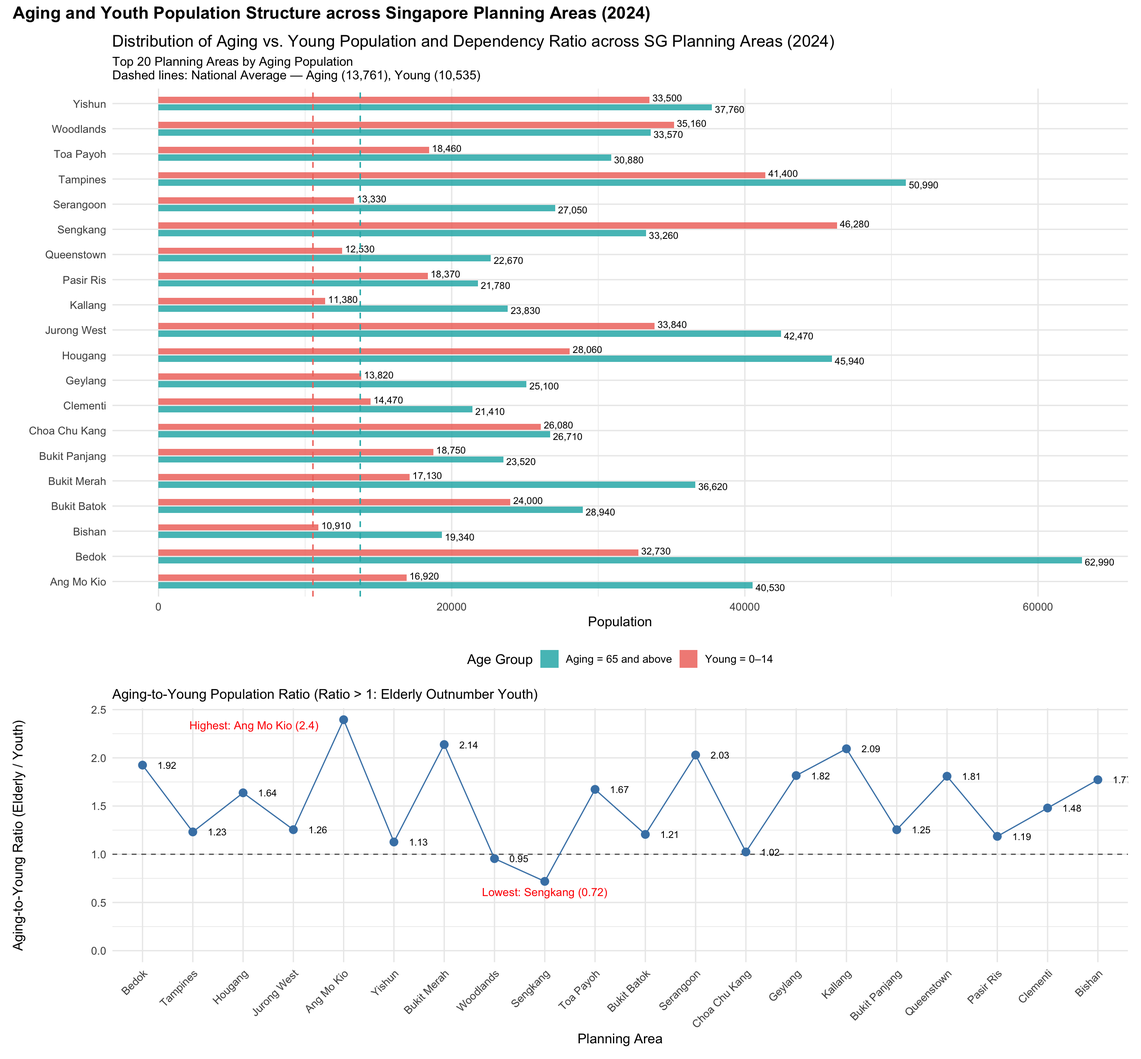
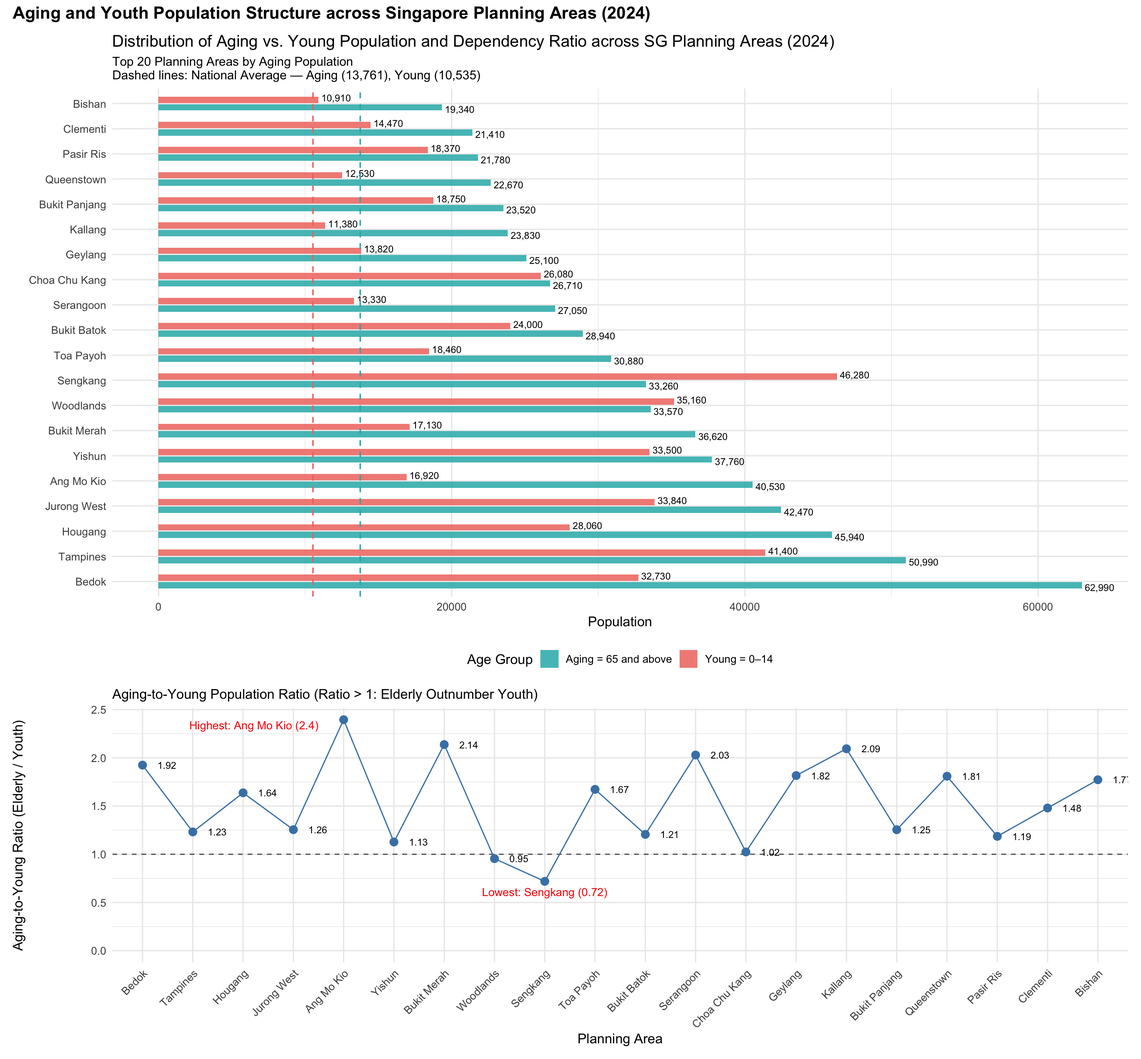
commit th1.2

diff --git a/_site/Take-home_Exercise/Take-home_Ex01/Take-home_Ex01B.html b/_site/Take-home_Exercise/Take-home_Ex01/Take-home_Ex01B.html
@@ -671,106 +671,104 @@ pre > code.sourceCode > span > a:first-child::before { text-decoration: underlin
 <span id="cb7-15"><a href="#cb7-15" aria-hidden="true" tabindex="-1"></a>  <span class="fu">slice_head</span>(<span class="at">n =</span> <span class="dv">20</span>) <span class="sc">%&gt;%</span></span>
 <span id="cb7-16"><a href="#cb7-16" aria-hidden="true" tabindex="-1"></a>  <span class="fu">pull</span>(PA)</span>
 <span id="cb7-17"><a href="#cb7-17" aria-hidden="true" tabindex="-1"></a></span>
-<span id="cb7-18"><a href="#cb7-18" aria-hidden="true" tabindex="-1"></a>top_age_groups <span class="ot">&lt;-</span> age_groups <span class="sc">%&gt;%</span></span>
-<span id="cb7-19"><a href="#cb7-19" aria-hidden="true" tabindex="-1"></a>  <span class="fu">filter</span>(PA <span class="sc">%in%</span> top_pa)</span>
-<span id="cb7-20"><a href="#cb7-20" aria-hidden="true" tabindex="-1"></a></span>
-<span id="cb7-21"><a href="#cb7-21" aria-hidden="true" tabindex="-1"></a><span class="co">#avg_pop &lt;- mean(top_age_groups$total_pop)</span></span>
-<span id="cb7-22"><a href="#cb7-22" aria-hidden="true" tabindex="-1"></a></span>
-<span id="cb7-23"><a href="#cb7-23" aria-hidden="true" tabindex="-1"></a>avg_pop <span class="ot">&lt;-</span> <span class="fu">mean</span>(age_groups<span class="sc">$</span>total_pop)</span>
-<span id="cb7-24"><a href="#cb7-24" aria-hidden="true" tabindex="-1"></a></span>
-<span id="cb7-25"><a href="#cb7-25" aria-hidden="true" tabindex="-1"></a></span>
-<span id="cb7-26"><a href="#cb7-26" aria-hidden="true" tabindex="-1"></a><span class="co">#Sort order: By elderly population</span></span>
-<span id="cb7-27"><a href="#cb7-27" aria-hidden="true" tabindex="-1"></a>pa_order <span class="ot">&lt;-</span> top_age_groups <span class="sc">%&gt;%</span></span>
-<span id="cb7-28"><a href="#cb7-28" aria-hidden="true" tabindex="-1"></a>  <span class="fu">filter</span>(group <span class="sc">==</span> <span class="st">"Aging"</span>) <span class="sc">%&gt;%</span></span>
-<span id="cb7-29"><a href="#cb7-29" aria-hidden="true" tabindex="-1"></a>  <span class="fu">arrange</span>(<span class="fu">desc</span>(total_pop)) <span class="sc">%&gt;%</span></span>
-<span id="cb7-30"><a href="#cb7-30" aria-hidden="true" tabindex="-1"></a>  <span class="fu">pull</span>(PA)</span>
+<span id="cb7-18"><a href="#cb7-18" aria-hidden="true" tabindex="-1"></a><span class="co"># Create top_age_groups</span></span>
+<span id="cb7-19"><a href="#cb7-19" aria-hidden="true" tabindex="-1"></a>top_age_groups <span class="ot">&lt;-</span> age_groups <span class="sc">%&gt;%</span></span>
+<span id="cb7-20"><a href="#cb7-20" aria-hidden="true" tabindex="-1"></a>  <span class="fu">filter</span>(PA <span class="sc">%in%</span> top_pa)</span>
+<span id="cb7-21"><a href="#cb7-21" aria-hidden="true" tabindex="-1"></a></span>
+<span id="cb7-22"><a href="#cb7-22" aria-hidden="true" tabindex="-1"></a><span class="co"># Sort order: By elderly population</span></span>
+<span id="cb7-23"><a href="#cb7-23" aria-hidden="true" tabindex="-1"></a>pa_order <span class="ot">&lt;-</span> top_age_groups <span class="sc">%&gt;%</span></span>
+<span id="cb7-24"><a href="#cb7-24" aria-hidden="true" tabindex="-1"></a>  <span class="fu">filter</span>(group <span class="sc">==</span> <span class="st">"Aging"</span>) <span class="sc">%&gt;%</span></span>
+<span id="cb7-25"><a href="#cb7-25" aria-hidden="true" tabindex="-1"></a>  <span class="fu">arrange</span>(<span class="fu">desc</span>(total_pop)) <span class="sc">%&gt;%</span></span>
+<span id="cb7-26"><a href="#cb7-26" aria-hidden="true" tabindex="-1"></a>  <span class="fu">pull</span>(PA)</span>
+<span id="cb7-27"><a href="#cb7-27" aria-hidden="true" tabindex="-1"></a></span>
+<span id="cb7-28"><a href="#cb7-28" aria-hidden="true" tabindex="-1"></a><span class="co"># Apply factor levels for consistent plotting</span></span>
+<span id="cb7-29"><a href="#cb7-29" aria-hidden="true" tabindex="-1"></a>top_age_groups <span class="ot">&lt;-</span> top_age_groups <span class="sc">%&gt;%</span></span>
+<span id="cb7-30"><a href="#cb7-30" aria-hidden="true" tabindex="-1"></a>  <span class="fu">mutate</span>(<span class="at">PA =</span> <span class="fu">factor</span>(PA, <span class="at">levels =</span> pa_order))</span>
 <span id="cb7-31"><a href="#cb7-31" aria-hidden="true" tabindex="-1"></a></span>
-<span id="cb7-32"><a href="#cb7-32" aria-hidden="true" tabindex="-1"></a>avg_aging_pop <span class="ot">&lt;-</span> age_groups <span class="sc">%&gt;%</span></span>
-<span id="cb7-33"><a href="#cb7-33" aria-hidden="true" tabindex="-1"></a>  <span class="fu">filter</span>(group <span class="sc">==</span> <span class="st">"Aging"</span>) <span class="sc">%&gt;%</span></span>
-<span id="cb7-34"><a href="#cb7-34" aria-hidden="true" tabindex="-1"></a>  <span class="fu">summarise</span>(<span class="at">mean_pop =</span> <span class="fu">mean</span>(total_pop)) <span class="sc">%&gt;%</span></span>
-<span id="cb7-35"><a href="#cb7-35" aria-hidden="true" tabindex="-1"></a>  <span class="fu">pull</span>(mean_pop)</span>
-<span id="cb7-36"><a href="#cb7-36" aria-hidden="true" tabindex="-1"></a></span>
-<span id="cb7-37"><a href="#cb7-37" aria-hidden="true" tabindex="-1"></a>avg_young_pop <span class="ot">&lt;-</span> age_groups <span class="sc">%&gt;%</span></span>
-<span id="cb7-38"><a href="#cb7-38" aria-hidden="true" tabindex="-1"></a>  <span class="fu">filter</span>(group <span class="sc">==</span> <span class="st">"Young"</span>) <span class="sc">%&gt;%</span></span>
-<span id="cb7-39"><a href="#cb7-39" aria-hidden="true" tabindex="-1"></a>  <span class="fu">summarise</span>(<span class="at">mean_pop =</span> <span class="fu">mean</span>(total_pop)) <span class="sc">%&gt;%</span></span>
-<span id="cb7-40"><a href="#cb7-40" aria-hidden="true" tabindex="-1"></a>  <span class="fu">pull</span>(mean_pop)</span>
-<span id="cb7-41"><a href="#cb7-41" aria-hidden="true" tabindex="-1"></a></span>
-<span id="cb7-42"><a href="#cb7-42" aria-hidden="true" tabindex="-1"></a></span>
-<span id="cb7-43"><a href="#cb7-43" aria-hidden="true" tabindex="-1"></a><span class="co"># Proportional data</span></span>
-<span id="cb7-44"><a href="#cb7-44" aria-hidden="true" tabindex="-1"></a>ratio_data <span class="ot">&lt;-</span> age_groups <span class="sc">%&gt;%</span></span>
-<span id="cb7-45"><a href="#cb7-45" aria-hidden="true" tabindex="-1"></a>  <span class="fu">filter</span>(PA <span class="sc">%in%</span> top_pa) <span class="sc">%&gt;%</span></span>
-<span id="cb7-46"><a href="#cb7-46" aria-hidden="true" tabindex="-1"></a>  <span class="fu">pivot_wider</span>(<span class="at">names_from =</span> group, <span class="at">values_from =</span> total_pop) <span class="sc">%&gt;%</span></span>
-<span id="cb7-47"><a href="#cb7-47" aria-hidden="true" tabindex="-1"></a>  <span class="fu">mutate</span>(<span class="at">ratio =</span> Aging <span class="sc">/</span> Young) <span class="sc">%&gt;%</span></span>
-<span id="cb7-48"><a href="#cb7-48" aria-hidden="true" tabindex="-1"></a>  <span class="fu">filter</span>(<span class="sc">!</span><span class="fu">is.na</span>(PA)) <span class="sc">%&gt;%</span></span>
-<span id="cb7-49"><a href="#cb7-49" aria-hidden="true" tabindex="-1"></a>  <span class="fu">mutate</span>(<span class="at">PA =</span> <span class="fu">factor</span>(PA, <span class="at">levels =</span> pa_order))</span>
-<span id="cb7-50"><a href="#cb7-50" aria-hidden="true" tabindex="-1"></a></span>
-<span id="cb7-51"><a href="#cb7-51" aria-hidden="true" tabindex="-1"></a><span class="co"># Extreme value labels</span></span>
-<span id="cb7-52"><a href="#cb7-52" aria-hidden="true" tabindex="-1"></a>max_label <span class="ot">&lt;-</span> ratio_data <span class="sc">%&gt;%</span> <span class="fu">slice_max</span>(ratio, <span class="at">n =</span> <span class="dv">1</span>)</span>
-<span id="cb7-53"><a href="#cb7-53" aria-hidden="true" tabindex="-1"></a>min_label <span class="ot">&lt;-</span> ratio_data <span class="sc">%&gt;%</span> <span class="fu">slice_min</span>(ratio, <span class="at">n =</span> <span class="dv">1</span>)</span>
-<span id="cb7-54"><a href="#cb7-54" aria-hidden="true" tabindex="-1"></a></span>
-<span id="cb7-55"><a href="#cb7-55" aria-hidden="true" tabindex="-1"></a>non_extreme <span class="ot">&lt;-</span> ratio_data <span class="sc">%&gt;%</span></span>
-<span id="cb7-56"><a href="#cb7-56" aria-hidden="true" tabindex="-1"></a>  <span class="fu">filter</span>(<span class="sc">!</span>(PA <span class="sc">%in%</span> <span class="fu">c</span>(max_label<span class="sc">$</span>PA, min_label<span class="sc">$</span>PA)))</span>
-<span id="cb7-57"><a href="#cb7-57" aria-hidden="true" tabindex="-1"></a></span>
-<span id="cb7-58"><a href="#cb7-58" aria-hidden="true" tabindex="-1"></a><span class="co"># Top Bar Chart</span></span>
-<span id="cb7-59"><a href="#cb7-59" aria-hidden="true" tabindex="-1"></a>bar_plot <span class="ot">&lt;-</span> <span class="fu">ggplot</span>(top_age_groups, <span class="fu">aes</span>(<span class="at">x =</span> total_pop, <span class="at">y =</span> PA, <span class="at">fill =</span> group)) <span class="sc">+</span></span>
-<span id="cb7-60"><a href="#cb7-60" aria-hidden="true" tabindex="-1"></a>  <span class="fu">geom_col</span>(<span class="at">position =</span> <span class="fu">position_dodge</span>(<span class="at">width =</span> <span class="fl">0.6</span>), <span class="at">width =</span> <span class="fl">0.5</span>, <span class="at">alpha =</span> <span class="fl">0.85</span>) <span class="sc">+</span></span>
-<span id="cb7-61"><a href="#cb7-61" aria-hidden="true" tabindex="-1"></a>  <span class="fu">geom_text</span>(<span class="fu">aes</span>(<span class="at">label =</span> <span class="fu">comma</span>(total_pop)), </span>
-<span id="cb7-62"><a href="#cb7-62" aria-hidden="true" tabindex="-1"></a>            <span class="at">position =</span> <span class="fu">position_dodge</span>(<span class="at">width =</span> <span class="fl">0.9</span>), </span>
-<span id="cb7-63"><a href="#cb7-63" aria-hidden="true" tabindex="-1"></a>            <span class="at">hjust =</span> <span class="sc">-</span><span class="fl">0.1</span>, <span class="at">size =</span> <span class="dv">3</span>) <span class="sc">+</span></span>
-<span id="cb7-64"><a href="#cb7-64" aria-hidden="true" tabindex="-1"></a></span>
-<span id="cb7-65"><a href="#cb7-65" aria-hidden="true" tabindex="-1"></a>  <span class="co"># 两条平均线</span></span>
-<span id="cb7-66"><a href="#cb7-66" aria-hidden="true" tabindex="-1"></a>  <span class="fu">geom_vline</span>(<span class="at">xintercept =</span> avg_aging_pop, <span class="at">linetype =</span> <span class="st">"dashed"</span>, <span class="at">color =</span> <span class="st">"#29B4B6"</span>, <span class="at">size =</span> <span class="fl">0.6</span>) <span class="sc">+</span></span>
-<span id="cb7-67"><a href="#cb7-67" aria-hidden="true" tabindex="-1"></a>  <span class="fu">geom_vline</span>(<span class="at">xintercept =</span> avg_young_pop, <span class="at">linetype =</span> <span class="st">"dashed"</span>, <span class="at">color =</span> <span class="st">"#F0776D"</span>, <span class="at">size =</span> <span class="fl">0.6</span>) <span class="sc">+</span></span>
-<span id="cb7-68"><a href="#cb7-68" aria-hidden="true" tabindex="-1"></a></span>
-<span id="cb7-69"><a href="#cb7-69" aria-hidden="true" tabindex="-1"></a>  <span class="fu">scale_fill_manual</span>(</span>
-<span id="cb7-70"><a href="#cb7-70" aria-hidden="true" tabindex="-1"></a>    <span class="at">values =</span> <span class="fu">c</span>(<span class="st">"Young"</span> <span class="ot">=</span> <span class="st">"#F0776D"</span>, <span class="st">"Aging"</span> <span class="ot">=</span> <span class="st">"#29B4B6"</span>),</span>
-<span id="cb7-71"><a href="#cb7-71" aria-hidden="true" tabindex="-1"></a>    <span class="at">name =</span> <span class="st">"Age Group"</span>,</span>
-<span id="cb7-72"><a href="#cb7-72" aria-hidden="true" tabindex="-1"></a>    <span class="at">labels =</span> <span class="fu">c</span>(<span class="st">"Aging = 65 and above"</span>, <span class="st">"Young = 0–14"</span>)</span>
-<span id="cb7-73"><a href="#cb7-73" aria-hidden="true" tabindex="-1"></a>  ) <span class="sc">+</span></span>
-<span id="cb7-74"><a href="#cb7-74" aria-hidden="true" tabindex="-1"></a></span>
-<span id="cb7-75"><a href="#cb7-75" aria-hidden="true" tabindex="-1"></a>  <span class="fu">labs</span>(</span>
-<span id="cb7-76"><a href="#cb7-76" aria-hidden="true" tabindex="-1"></a>    <span class="at">x =</span> <span class="st">"Population"</span>, </span>
-<span id="cb7-77"><a href="#cb7-77" aria-hidden="true" tabindex="-1"></a>    <span class="at">y =</span> <span class="cn">NULL</span>,</span>
-<span id="cb7-78"><a href="#cb7-78" aria-hidden="true" tabindex="-1"></a>    <span class="at">title =</span> <span class="st">"Distribution of Aging vs. Young Population and Dependency Ratio across SG Planning Areas (2024)"</span>,</span>
-<span id="cb7-79"><a href="#cb7-79" aria-hidden="true" tabindex="-1"></a>    <span class="at">subtitle =</span> <span class="fu">paste0</span>(</span>
-<span id="cb7-80"><a href="#cb7-80" aria-hidden="true" tabindex="-1"></a>      <span class="st">"Top 20 Planning Areas by Aging Population</span><span class="sc">\n</span><span class="st">"</span>,</span>
-<span id="cb7-81"><a href="#cb7-81" aria-hidden="true" tabindex="-1"></a>      <span class="st">"Dashed lines: National Average — Aging ("</span>, <span class="fu">comma</span>(<span class="fu">round</span>(avg_aging_pop)), </span>
-<span id="cb7-82"><a href="#cb7-82" aria-hidden="true" tabindex="-1"></a>      <span class="st">"), Young ("</span>, <span class="fu">comma</span>(<span class="fu">round</span>(avg_young_pop)), <span class="st">")"</span></span>
-<span id="cb7-83"><a href="#cb7-83" aria-hidden="true" tabindex="-1"></a>    )</span>
-<span id="cb7-84"><a href="#cb7-84" aria-hidden="true" tabindex="-1"></a>  ) <span class="sc">+</span></span>
-<span id="cb7-85"><a href="#cb7-85" aria-hidden="true" tabindex="-1"></a></span>
-<span id="cb7-86"><a href="#cb7-86" aria-hidden="true" tabindex="-1"></a>  <span class="fu">theme_minimal</span>(<span class="at">base_size =</span> <span class="dv">12</span>) <span class="sc">+</span></span>
-<span id="cb7-87"><a href="#cb7-87" aria-hidden="true" tabindex="-1"></a>  <span class="fu">theme</span>(<span class="at">legend.position =</span> <span class="st">"bottom"</span>,<span class="at">plot.subtitle =</span> <span class="fu">element_text</span>(<span class="at">size =</span> <span class="dv">11</span>))</span>
-<span id="cb7-88"><a href="#cb7-88" aria-hidden="true" tabindex="-1"></a></span>
-<span id="cb7-89"><a href="#cb7-89" aria-hidden="true" tabindex="-1"></a></span>
-<span id="cb7-90"><a href="#cb7-90" aria-hidden="true" tabindex="-1"></a><span class="co"># Ratio Plot</span></span>
-<span id="cb7-91"><a href="#cb7-91" aria-hidden="true" tabindex="-1"></a>line_plot <span class="ot">&lt;-</span> <span class="fu">ggplot</span>(ratio_data, <span class="fu">aes</span>(<span class="at">x =</span> PA, <span class="at">y =</span> ratio)) <span class="sc">+</span></span>
-<span id="cb7-92"><a href="#cb7-92" aria-hidden="true" tabindex="-1"></a>  <span class="fu">geom_hline</span>(<span class="at">yintercept =</span> <span class="dv">1</span>, <span class="at">linetype =</span> <span class="st">"dashed"</span>, <span class="at">color =</span> <span class="st">"grey40"</span>) <span class="sc">+</span></span>
-<span id="cb7-93"><a href="#cb7-93" aria-hidden="true" tabindex="-1"></a>  <span class="fu">geom_line</span>(<span class="fu">aes</span>(<span class="at">group =</span> <span class="dv">1</span>), <span class="at">color =</span> <span class="st">"steelblue"</span>) <span class="sc">+</span></span>
-<span id="cb7-94"><a href="#cb7-94" aria-hidden="true" tabindex="-1"></a>  <span class="fu">geom_point</span>(<span class="at">size =</span> <span class="dv">3</span>, <span class="at">color =</span> <span class="st">"steelblue"</span>) <span class="sc">+</span></span>
-<span id="cb7-95"><a href="#cb7-95" aria-hidden="true" tabindex="-1"></a>  <span class="fu">geom_text</span>(<span class="at">data =</span> max_label, <span class="fu">aes</span>(<span class="at">label =</span> <span class="fu">paste0</span>(<span class="st">"Highest: "</span>, PA, <span class="st">" ("</span>, <span class="fu">round</span>(ratio, <span class="dv">2</span>), <span class="st">")"</span>)),</span>
-<span id="cb7-96"><a href="#cb7-96" aria-hidden="true" tabindex="-1"></a>            <span class="at">vjust =</span> <span class="sc">-</span><span class="fl">1.2</span>, <span class="at">color =</span> <span class="st">"red"</span>, <span class="at">size =</span> <span class="fl">3.5</span>,<span class="at">hjust =</span> <span class="dv">1</span>,          </span>
-<span id="cb7-97"><a href="#cb7-97" aria-hidden="true" tabindex="-1"></a>          <span class="at">nudge_x =</span> <span class="sc">-</span><span class="fl">0.5</span>,<span class="at">nudge_y=</span><span class="sc">-</span><span class="fl">0.2</span>) <span class="sc">+</span></span>
-<span id="cb7-98"><a href="#cb7-98" aria-hidden="true" tabindex="-1"></a>  <span class="fu">geom_text</span>(<span class="at">data =</span> min_label, <span class="fu">aes</span>(<span class="at">label =</span> <span class="fu">paste0</span>(<span class="st">"Lowest: "</span>, PA, <span class="st">" ("</span>, <span class="fu">round</span>(ratio, <span class="dv">2</span>), <span class="st">")"</span>)),</span>
-<span id="cb7-99"><a href="#cb7-99" aria-hidden="true" tabindex="-1"></a>            <span class="at">vjust =</span> <span class="fl">1.8</span>, <span class="at">color =</span> <span class="st">"red"</span>, <span class="at">size =</span> <span class="fl">3.5</span>) <span class="sc">+</span></span>
-<span id="cb7-100"><a href="#cb7-100" aria-hidden="true" tabindex="-1"></a>  <span class="fu">geom_text</span>(<span class="at">data =</span> non_extreme, </span>
-<span id="cb7-101"><a href="#cb7-101" aria-hidden="true" tabindex="-1"></a>          <span class="fu">aes</span>(<span class="at">label =</span> <span class="fu">round</span>(ratio, <span class="dv">2</span>)), </span>
-<span id="cb7-102"><a href="#cb7-102" aria-hidden="true" tabindex="-1"></a>          <span class="at">hjust =</span> <span class="dv">0</span>,<span class="at">nudge_x =</span> <span class="fl">0.3</span>, <span class="at">size =</span> <span class="dv">3</span>, <span class="at">color =</span> <span class="st">"black"</span>)<span class="sc">+</span></span>
-<span id="cb7-103"><a href="#cb7-103" aria-hidden="true" tabindex="-1"></a>  <span class="fu">scale_y_continuous</span>(<span class="at">name =</span> <span class="st">"Aging-to-Young Ratio (Elderly / Youth)"</span>, <span class="at">limits =</span> <span class="fu">c</span>(<span class="dv">0</span>, <span class="cn">NA</span>)) <span class="sc">+</span></span>
-<span id="cb7-104"><a href="#cb7-104" aria-hidden="true" tabindex="-1"></a>  <span class="fu">labs</span>(<span class="at">x =</span> <span class="st">"Planning Area"</span>,</span>
-<span id="cb7-105"><a href="#cb7-105" aria-hidden="true" tabindex="-1"></a>       <span class="at">subtitle =</span> <span class="st">"Aging-to-Young Population Ratio (Ratio &gt; 1: Elderly Outnumber Youth)"</span>) <span class="sc">+</span></span>
-<span id="cb7-106"><a href="#cb7-106" aria-hidden="true" tabindex="-1"></a>  <span class="fu">theme_minimal</span>(<span class="at">base_size =</span> <span class="dv">12</span>) <span class="sc">+</span></span>
-<span id="cb7-107"><a href="#cb7-107" aria-hidden="true" tabindex="-1"></a>  <span class="fu">theme</span>(<span class="at">axis.text.x =</span> <span class="fu">element_text</span>(<span class="at">angle =</span> <span class="dv">45</span>, <span class="at">hjust =</span> <span class="dv">1</span>))</span>
-<span id="cb7-108"><a href="#cb7-108" aria-hidden="true" tabindex="-1"></a></span>
-<span id="cb7-109"><a href="#cb7-109" aria-hidden="true" tabindex="-1"></a><span class="co"># Combine plots with improved title</span></span>
-<span id="cb7-110"><a href="#cb7-110" aria-hidden="true" tabindex="-1"></a>final_plot <span class="ot">&lt;-</span> (bar_plot <span class="sc">/</span> line_plot) <span class="sc">+</span></span>
-<span id="cb7-111"><a href="#cb7-111" aria-hidden="true" tabindex="-1"></a>  <span class="fu">plot_layout</span>(<span class="at">heights =</span> <span class="fu">c</span>(<span class="dv">2</span>, <span class="dv">1</span>)) <span class="sc">+</span></span>
-<span id="cb7-112"><a href="#cb7-112" aria-hidden="true" tabindex="-1"></a>  <span class="fu">plot_annotation</span>(</span>
-<span id="cb7-113"><a href="#cb7-113" aria-hidden="true" tabindex="-1"></a>    <span class="at">title =</span> <span class="st">"Aging and Youth Population Structure across Singapore Planning Areas (2024)"</span>,</span>
-<span id="cb7-114"><a href="#cb7-114" aria-hidden="true" tabindex="-1"></a>    <span class="at">theme =</span> <span class="fu">theme</span>(<span class="at">plot.title =</span> <span class="fu">element_text</span>(<span class="at">size =</span> <span class="dv">15</span>, <span class="at">face =</span> <span class="st">"bold"</span>))</span>
-<span id="cb7-115"><a href="#cb7-115" aria-hidden="true" tabindex="-1"></a>  )</span>
-<span id="cb7-116"><a href="#cb7-116" aria-hidden="true" tabindex="-1"></a></span>
-<span id="cb7-117"><a href="#cb7-117" aria-hidden="true" tabindex="-1"></a><span class="fu">print</span>(final_plot)</span></code><button title="Copy to Clipboard" class="code-copy-button"><i class="bi"></i></button></pre></div>
+<span id="cb7-32"><a href="#cb7-32" aria-hidden="true" tabindex="-1"></a><span class="co"># Calculate national averages</span></span>
+<span id="cb7-33"><a href="#cb7-33" aria-hidden="true" tabindex="-1"></a>avg_pop <span class="ot">&lt;-</span> <span class="fu">mean</span>(age_groups<span class="sc">$</span>total_pop)</span>
+<span id="cb7-34"><a href="#cb7-34" aria-hidden="true" tabindex="-1"></a></span>
+<span id="cb7-35"><a href="#cb7-35" aria-hidden="true" tabindex="-1"></a>avg_aging_pop <span class="ot">&lt;-</span> age_groups <span class="sc">%&gt;%</span></span>
+<span id="cb7-36"><a href="#cb7-36" aria-hidden="true" tabindex="-1"></a>  <span class="fu">filter</span>(group <span class="sc">==</span> <span class="st">"Aging"</span>) <span class="sc">%&gt;%</span></span>
+<span id="cb7-37"><a href="#cb7-37" aria-hidden="true" tabindex="-1"></a>  <span class="fu">summarise</span>(<span class="at">mean_pop =</span> <span class="fu">mean</span>(total_pop)) <span class="sc">%&gt;%</span></span>
+<span id="cb7-38"><a href="#cb7-38" aria-hidden="true" tabindex="-1"></a>  <span class="fu">pull</span>(mean_pop)</span>
+<span id="cb7-39"><a href="#cb7-39" aria-hidden="true" tabindex="-1"></a></span>
+<span id="cb7-40"><a href="#cb7-40" aria-hidden="true" tabindex="-1"></a>avg_young_pop <span class="ot">&lt;-</span> age_groups <span class="sc">%&gt;%</span></span>
+<span id="cb7-41"><a href="#cb7-41" aria-hidden="true" tabindex="-1"></a>  <span class="fu">filter</span>(group <span class="sc">==</span> <span class="st">"Young"</span>) <span class="sc">%&gt;%</span></span>
+<span id="cb7-42"><a href="#cb7-42" aria-hidden="true" tabindex="-1"></a>  <span class="fu">summarise</span>(<span class="at">mean_pop =</span> <span class="fu">mean</span>(total_pop)) <span class="sc">%&gt;%</span></span>
+<span id="cb7-43"><a href="#cb7-43" aria-hidden="true" tabindex="-1"></a>  <span class="fu">pull</span>(mean_pop)</span>
+<span id="cb7-44"><a href="#cb7-44" aria-hidden="true" tabindex="-1"></a></span>
+<span id="cb7-45"><a href="#cb7-45" aria-hidden="true" tabindex="-1"></a><span class="co"># Calculate aging-to-young ratio for top PAs</span></span>
+<span id="cb7-46"><a href="#cb7-46" aria-hidden="true" tabindex="-1"></a>ratio_data <span class="ot">&lt;-</span> age_groups <span class="sc">%&gt;%</span></span>
+<span id="cb7-47"><a href="#cb7-47" aria-hidden="true" tabindex="-1"></a>  <span class="fu">filter</span>(PA <span class="sc">%in%</span> top_pa) <span class="sc">%&gt;%</span></span>
+<span id="cb7-48"><a href="#cb7-48" aria-hidden="true" tabindex="-1"></a>  <span class="fu">pivot_wider</span>(<span class="at">names_from =</span> group, <span class="at">values_from =</span> total_pop) <span class="sc">%&gt;%</span></span>
+<span id="cb7-49"><a href="#cb7-49" aria-hidden="true" tabindex="-1"></a>  <span class="fu">mutate</span>(<span class="at">ratio =</span> Aging <span class="sc">/</span> Young) <span class="sc">%&gt;%</span></span>
+<span id="cb7-50"><a href="#cb7-50" aria-hidden="true" tabindex="-1"></a>  <span class="fu">filter</span>(<span class="sc">!</span><span class="fu">is.na</span>(PA)) <span class="sc">%&gt;%</span></span>
+<span id="cb7-51"><a href="#cb7-51" aria-hidden="true" tabindex="-1"></a>  <span class="fu">mutate</span>(<span class="at">PA =</span> <span class="fu">factor</span>(PA, <span class="at">levels =</span> pa_order))</span>
+<span id="cb7-52"><a href="#cb7-52" aria-hidden="true" tabindex="-1"></a></span>
+<span id="cb7-53"><a href="#cb7-53" aria-hidden="true" tabindex="-1"></a><span class="co"># Extreme value labels</span></span>
+<span id="cb7-54"><a href="#cb7-54" aria-hidden="true" tabindex="-1"></a>max_label <span class="ot">&lt;-</span> ratio_data <span class="sc">%&gt;%</span> <span class="fu">slice_max</span>(ratio, <span class="at">n =</span> <span class="dv">1</span>)</span>
+<span id="cb7-55"><a href="#cb7-55" aria-hidden="true" tabindex="-1"></a>min_label <span class="ot">&lt;-</span> ratio_data <span class="sc">%&gt;%</span> <span class="fu">slice_min</span>(ratio, <span class="at">n =</span> <span class="dv">1</span>)</span>
+<span id="cb7-56"><a href="#cb7-56" aria-hidden="true" tabindex="-1"></a>non_extreme <span class="ot">&lt;-</span> ratio_data <span class="sc">%&gt;%</span></span>
+<span id="cb7-57"><a href="#cb7-57" aria-hidden="true" tabindex="-1"></a>  <span class="fu">filter</span>(<span class="sc">!</span>(PA <span class="sc">%in%</span> <span class="fu">c</span>(max_label<span class="sc">$</span>PA, min_label<span class="sc">$</span>PA)))</span>
+<span id="cb7-58"><a href="#cb7-58" aria-hidden="true" tabindex="-1"></a></span>
+<span id="cb7-59"><a href="#cb7-59" aria-hidden="true" tabindex="-1"></a><span class="co"># Top Bar Chart</span></span>
+<span id="cb7-60"><a href="#cb7-60" aria-hidden="true" tabindex="-1"></a>bar_plot <span class="ot">&lt;-</span> <span class="fu">ggplot</span>(top_age_groups, <span class="fu">aes</span>(<span class="at">x =</span> total_pop, <span class="at">y =</span> PA, <span class="at">fill =</span> group)) <span class="sc">+</span></span>
+<span id="cb7-61"><a href="#cb7-61" aria-hidden="true" tabindex="-1"></a>  <span class="fu">geom_col</span>(<span class="at">position =</span> <span class="fu">position_dodge</span>(<span class="at">width =</span> <span class="fl">0.6</span>), <span class="at">width =</span> <span class="fl">0.5</span>, <span class="at">alpha =</span> <span class="fl">0.85</span>) <span class="sc">+</span></span>
+<span id="cb7-62"><a href="#cb7-62" aria-hidden="true" tabindex="-1"></a>  <span class="fu">geom_text</span>(<span class="fu">aes</span>(<span class="at">label =</span> <span class="fu">comma</span>(total_pop)), </span>
+<span id="cb7-63"><a href="#cb7-63" aria-hidden="true" tabindex="-1"></a>            <span class="at">position =</span> <span class="fu">position_dodge</span>(<span class="at">width =</span> <span class="fl">0.9</span>), </span>
+<span id="cb7-64"><a href="#cb7-64" aria-hidden="true" tabindex="-1"></a>            <span class="at">hjust =</span> <span class="sc">-</span><span class="fl">0.1</span>, <span class="at">size =</span> <span class="dv">3</span>) <span class="sc">+</span></span>
+<span id="cb7-65"><a href="#cb7-65" aria-hidden="true" tabindex="-1"></a>  <span class="fu">geom_vline</span>(<span class="at">xintercept =</span> avg_aging_pop, <span class="at">linetype =</span> <span class="st">"dashed"</span>, <span class="at">color =</span> <span class="st">"#29B4B6"</span>, <span class="at">size =</span> <span class="fl">0.6</span>) <span class="sc">+</span></span>
+<span id="cb7-66"><a href="#cb7-66" aria-hidden="true" tabindex="-1"></a>  <span class="fu">geom_vline</span>(<span class="at">xintercept =</span> avg_young_pop, <span class="at">linetype =</span> <span class="st">"dashed"</span>, <span class="at">color =</span> <span class="st">"#F0776D"</span>, <span class="at">size =</span> <span class="fl">0.6</span>) <span class="sc">+</span></span>
+<span id="cb7-67"><a href="#cb7-67" aria-hidden="true" tabindex="-1"></a>  <span class="fu">scale_fill_manual</span>(</span>
+<span id="cb7-68"><a href="#cb7-68" aria-hidden="true" tabindex="-1"></a>    <span class="at">values =</span> <span class="fu">c</span>(<span class="st">"Young"</span> <span class="ot">=</span> <span class="st">"#F0776D"</span>, <span class="st">"Aging"</span> <span class="ot">=</span> <span class="st">"#29B4B6"</span>),</span>
+<span id="cb7-69"><a href="#cb7-69" aria-hidden="true" tabindex="-1"></a>    <span class="at">name =</span> <span class="st">"Age Group"</span>,</span>
+<span id="cb7-70"><a href="#cb7-70" aria-hidden="true" tabindex="-1"></a>    <span class="at">labels =</span> <span class="fu">c</span>(<span class="st">"Aging = 65 and above"</span>, <span class="st">"Young = 0–14"</span>)</span>
+<span id="cb7-71"><a href="#cb7-71" aria-hidden="true" tabindex="-1"></a>  ) <span class="sc">+</span></span>
+<span id="cb7-72"><a href="#cb7-72" aria-hidden="true" tabindex="-1"></a>  <span class="fu">labs</span>(</span>
+<span id="cb7-73"><a href="#cb7-73" aria-hidden="true" tabindex="-1"></a>    <span class="at">x =</span> <span class="st">"Population"</span>, </span>
+<span id="cb7-74"><a href="#cb7-74" aria-hidden="true" tabindex="-1"></a>    <span class="at">y =</span> <span class="cn">NULL</span>,</span>
+<span id="cb7-75"><a href="#cb7-75" aria-hidden="true" tabindex="-1"></a>    <span class="at">title =</span> <span class="st">"Distribution of Aging vs. Young Population and Dependency Ratio across SG Planning Areas (2024)"</span>,</span>
+<span id="cb7-76"><a href="#cb7-76" aria-hidden="true" tabindex="-1"></a>    <span class="at">subtitle =</span> <span class="fu">paste0</span>(</span>
+<span id="cb7-77"><a href="#cb7-77" aria-hidden="true" tabindex="-1"></a>      <span class="st">"Top 20 Planning Areas by Aging Population</span><span class="sc">\n</span><span class="st">"</span>,</span>
+<span id="cb7-78"><a href="#cb7-78" aria-hidden="true" tabindex="-1"></a>      <span class="st">"Dashed lines: National Average — Aging ("</span>, <span class="fu">comma</span>(<span class="fu">round</span>(avg_aging_pop)), </span>
+<span id="cb7-79"><a href="#cb7-79" aria-hidden="true" tabindex="-1"></a>      <span class="st">"), Young ("</span>, <span class="fu">comma</span>(<span class="fu">round</span>(avg_young_pop)), <span class="st">")"</span></span>
+<span id="cb7-80"><a href="#cb7-80" aria-hidden="true" tabindex="-1"></a>    )</span>
+<span id="cb7-81"><a href="#cb7-81" aria-hidden="true" tabindex="-1"></a>  ) <span class="sc">+</span></span>
+<span id="cb7-82"><a href="#cb7-82" aria-hidden="true" tabindex="-1"></a>  <span class="fu">theme_minimal</span>(<span class="at">base_size =</span> <span class="dv">12</span>) <span class="sc">+</span></span>
+<span id="cb7-83"><a href="#cb7-83" aria-hidden="true" tabindex="-1"></a>  <span class="fu">theme</span>(</span>
+<span id="cb7-84"><a href="#cb7-84" aria-hidden="true" tabindex="-1"></a>    <span class="at">legend.position =</span> <span class="st">"bottom"</span>,</span>
+<span id="cb7-85"><a href="#cb7-85" aria-hidden="true" tabindex="-1"></a>    <span class="at">plot.subtitle =</span> <span class="fu">element_text</span>(<span class="at">size =</span> <span class="dv">11</span>)</span>
+<span id="cb7-86"><a href="#cb7-86" aria-hidden="true" tabindex="-1"></a>  )</span>
+<span id="cb7-87"><a href="#cb7-87" aria-hidden="true" tabindex="-1"></a></span>
+<span id="cb7-88"><a href="#cb7-88" aria-hidden="true" tabindex="-1"></a><span class="co"># Ratio Plot</span></span>
+<span id="cb7-89"><a href="#cb7-89" aria-hidden="true" tabindex="-1"></a>line_plot <span class="ot">&lt;-</span> <span class="fu">ggplot</span>(ratio_data, <span class="fu">aes</span>(<span class="at">x =</span> PA, <span class="at">y =</span> ratio)) <span class="sc">+</span></span>
+<span id="cb7-90"><a href="#cb7-90" aria-hidden="true" tabindex="-1"></a>  <span class="fu">geom_hline</span>(<span class="at">yintercept =</span> <span class="dv">1</span>, <span class="at">linetype =</span> <span class="st">"dashed"</span>, <span class="at">color =</span> <span class="st">"grey40"</span>) <span class="sc">+</span></span>
+<span id="cb7-91"><a href="#cb7-91" aria-hidden="true" tabindex="-1"></a>  <span class="fu">geom_line</span>(<span class="fu">aes</span>(<span class="at">group =</span> <span class="dv">1</span>), <span class="at">color =</span> <span class="st">"steelblue"</span>) <span class="sc">+</span></span>
+<span id="cb7-92"><a href="#cb7-92" aria-hidden="true" tabindex="-1"></a>  <span class="fu">geom_point</span>(<span class="at">size =</span> <span class="dv">3</span>, <span class="at">color =</span> <span class="st">"steelblue"</span>) <span class="sc">+</span></span>
+<span id="cb7-93"><a href="#cb7-93" aria-hidden="true" tabindex="-1"></a>  <span class="fu">geom_text</span>(<span class="at">data =</span> max_label, <span class="fu">aes</span>(<span class="at">label =</span> <span class="fu">paste0</span>(<span class="st">"Highest: "</span>, PA, <span class="st">" ("</span>, <span class="fu">round</span>(ratio, <span class="dv">2</span>), <span class="st">")"</span>)),</span>
+<span id="cb7-94"><a href="#cb7-94" aria-hidden="true" tabindex="-1"></a>            <span class="at">vjust =</span> <span class="sc">-</span><span class="fl">1.2</span>, <span class="at">color =</span> <span class="st">"red"</span>, <span class="at">size =</span> <span class="fl">3.5</span>,<span class="at">hjust =</span> <span class="dv">1</span>,          </span>
+<span id="cb7-95"><a href="#cb7-95" aria-hidden="true" tabindex="-1"></a>          <span class="at">nudge_x =</span> <span class="sc">-</span><span class="fl">0.5</span>,<span class="at">nudge_y=</span><span class="sc">-</span><span class="fl">0.2</span>) <span class="sc">+</span></span>
+<span id="cb7-96"><a href="#cb7-96" aria-hidden="true" tabindex="-1"></a>  <span class="fu">geom_text</span>(<span class="at">data =</span> min_label, <span class="fu">aes</span>(<span class="at">label =</span> <span class="fu">paste0</span>(<span class="st">"Lowest: "</span>, PA, <span class="st">" ("</span>, <span class="fu">round</span>(ratio, <span class="dv">2</span>), <span class="st">")"</span>)),</span>
+<span id="cb7-97"><a href="#cb7-97" aria-hidden="true" tabindex="-1"></a>            <span class="at">vjust =</span> <span class="fl">1.8</span>, <span class="at">color =</span> <span class="st">"red"</span>, <span class="at">size =</span> <span class="fl">3.5</span>) <span class="sc">+</span></span>
+<span id="cb7-98"><a href="#cb7-98" aria-hidden="true" tabindex="-1"></a>  <span class="fu">geom_text</span>(<span class="at">data =</span> non_extreme, </span>
+<span id="cb7-99"><a href="#cb7-99" aria-hidden="true" tabindex="-1"></a>          <span class="fu">aes</span>(<span class="at">label =</span> <span class="fu">round</span>(ratio, <span class="dv">2</span>)), </span>
+<span id="cb7-100"><a href="#cb7-100" aria-hidden="true" tabindex="-1"></a>          <span class="at">hjust =</span> <span class="dv">0</span>,<span class="at">nudge_x =</span> <span class="fl">0.3</span>, <span class="at">size =</span> <span class="dv">3</span>, <span class="at">color =</span> <span class="st">"black"</span>)<span class="sc">+</span></span>
+<span id="cb7-101"><a href="#cb7-101" aria-hidden="true" tabindex="-1"></a>  <span class="fu">scale_y_continuous</span>(<span class="at">name =</span> <span class="st">"Aging-to-Young Ratio (Elderly / Youth)"</span>, <span class="at">limits =</span> <span class="fu">c</span>(<span class="dv">0</span>, <span class="cn">NA</span>)) <span class="sc">+</span></span>
+<span id="cb7-102"><a href="#cb7-102" aria-hidden="true" tabindex="-1"></a>  <span class="fu">labs</span>(<span class="at">x =</span> <span class="st">"Planning Area"</span>,</span>
+<span id="cb7-103"><a href="#cb7-103" aria-hidden="true" tabindex="-1"></a>       <span class="at">subtitle =</span> <span class="st">"Aging-to-Young Population Ratio (Ratio &gt; 1: Elderly Outnumber Youth)"</span>) <span class="sc">+</span></span>
+<span id="cb7-104"><a href="#cb7-104" aria-hidden="true" tabindex="-1"></a>  <span class="fu">theme_minimal</span>(<span class="at">base_size =</span> <span class="dv">12</span>) <span class="sc">+</span></span>
+<span id="cb7-105"><a href="#cb7-105" aria-hidden="true" tabindex="-1"></a>  <span class="fu">theme</span>(<span class="at">axis.text.x =</span> <span class="fu">element_text</span>(<span class="at">angle =</span> <span class="dv">45</span>, <span class="at">hjust =</span> <span class="dv">1</span>))</span>
+<span id="cb7-106"><a href="#cb7-106" aria-hidden="true" tabindex="-1"></a></span>
+<span id="cb7-107"><a href="#cb7-107" aria-hidden="true" tabindex="-1"></a><span class="co"># Combine plots with improved title</span></span>
+<span id="cb7-108"><a href="#cb7-108" aria-hidden="true" tabindex="-1"></a>final_plot <span class="ot">&lt;-</span> (bar_plot <span class="sc">/</span> line_plot) <span class="sc">+</span></span>
+<span id="cb7-109"><a href="#cb7-109" aria-hidden="true" tabindex="-1"></a>  <span class="fu">plot_layout</span>(<span class="at">heights =</span> <span class="fu">c</span>(<span class="dv">2</span>, <span class="dv">1</span>)) <span class="sc">+</span></span>
+<span id="cb7-110"><a href="#cb7-110" aria-hidden="true" tabindex="-1"></a>  <span class="fu">plot_annotation</span>(</span>
+<span id="cb7-111"><a href="#cb7-111" aria-hidden="true" tabindex="-1"></a>    <span class="at">title =</span> <span class="st">"Aging and Youth Population Structure across Singapore Planning Areas (2024)"</span>,</span>
+<span id="cb7-112"><a href="#cb7-112" aria-hidden="true" tabindex="-1"></a>    <span class="at">theme =</span> <span class="fu">theme</span>(<span class="at">plot.title =</span> <span class="fu">element_text</span>(<span class="at">size =</span> <span class="dv">15</span>, <span class="at">face =</span> <span class="st">"bold"</span>))</span>
+<span id="cb7-113"><a href="#cb7-113" aria-hidden="true" tabindex="-1"></a>  )</span>
+<span id="cb7-114"><a href="#cb7-114" aria-hidden="true" tabindex="-1"></a></span>
+<span id="cb7-115"><a href="#cb7-115" aria-hidden="true" tabindex="-1"></a><span class="fu">print</span>(final_plot)</span></code><button title="Copy to Clipboard" class="code-copy-button"><i class="bi"></i></button></pre></div>
 </details>
 <div class="cell-output-display">
 <div>
